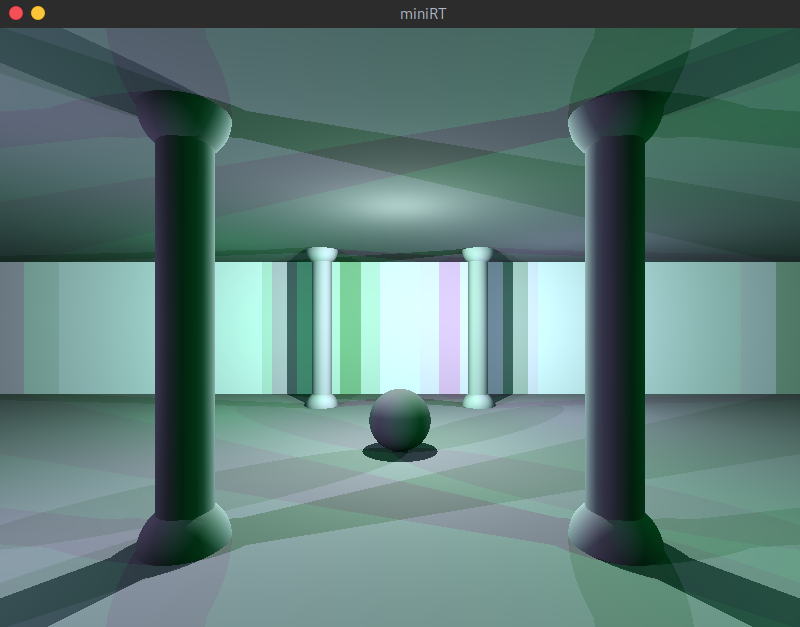
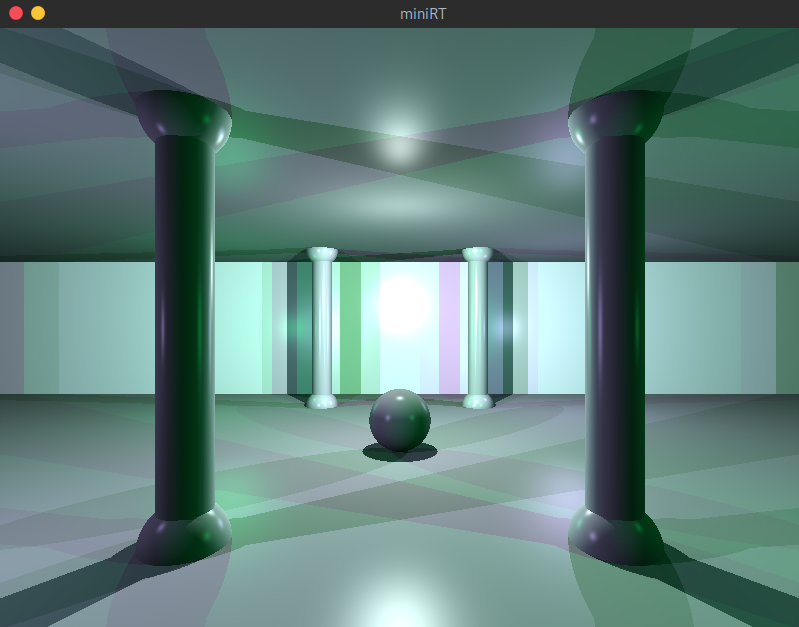
Fix condition bug

diff --git a/src/rendering/trace_ray_to_lights.c b/src/rendering/trace_ray_to_lights.c
@@ -6,7 +6,7 @@
 /*   By: mboivin <mboivin@student.42.fr>            +#+  +:+       +#+        */
 /*                                                +#+#+#+#+#+   +#+           */
 /*   Created: 2020/07/21 21:32:12 by mboivin           #+#    #+#             */
-/*   Updated: 2020/08/31 01:48:32 by mboivin          ###   ########.fr       */
+/*   Updated: 2020/08/31 02:38:45 by mboivin          ###   ########.fr       */
 /*                                                                            */
 /* ************************************************************************** */
 
@@ -41,15 +41,15 @@ void			compute_lighting(
 
 	light_dir = sub_vec3(light->pos, ray->hit_p);
 	angle = dot_vec3(ray->normal, normalize_vec3(light_dir));
-	if ((is_in_shadow(objs, ray, light_dir) == false) && (angle > 0.0))
+	if (is_in_shadow(objs, ray, light_dir) == false && angle > 0.0)
 	{
 		coef = light->ratio * cos_vec3(ray->normal, normalize_vec3(light_dir));
 		add_light(output, light->vcolor, coef);
-		if (BONUS == 1)
-		{
-			coef = get_specular(ray, light, light_dir, angle);
-			add_light(output, light->vcolor, coef);
-		}
+	}
+	if (is_in_shadow(objs, ray, light_dir) == false && angle > 0.0 && BONUS)
+	{
+		coef = get_specular(ray, light, light_dir, angle);
+		add_light(output, light->vcolor, coef);
 	}
 }
 
